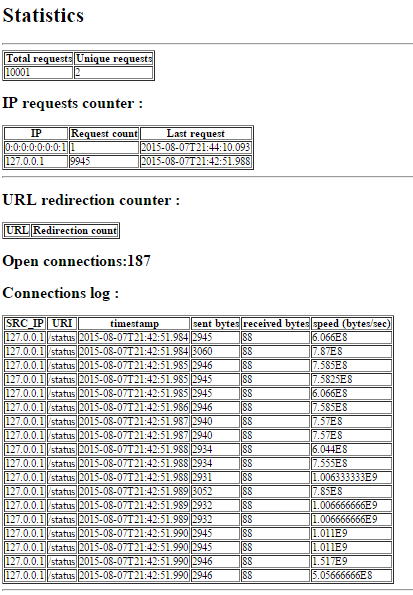
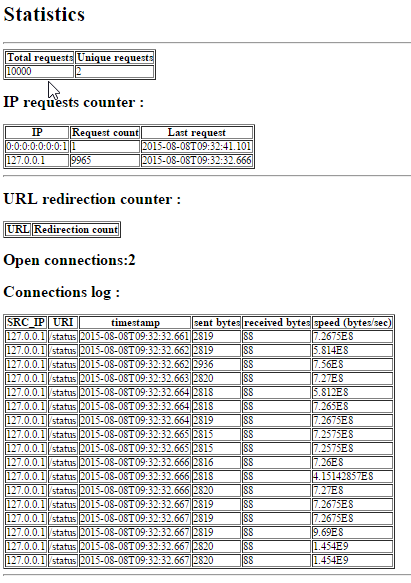
count open connections fixed

diff --git a/src/main/java/ua/palii/nettytest/server/Statistics.java b/src/main/java/ua/palii/nettytest/server/Statistics.java
@@ -4,6 +4,7 @@ import java.time.LocalDateTime;
 import java.util.*;
 import java.util.concurrent.ConcurrentHashMap;
 import java.util.concurrent.ConcurrentLinkedQueue;
+import java.util.concurrent.atomic.AtomicInteger;
 
 /**
  * Created by VVV on 05.08.2015.
@@ -16,7 +17,7 @@ public class Statistics {
 
     private ConcurrentLinkedQueue<ConnectionInfo> connectionLog;
 
-    private Integer openConnection = 0;
+    private AtomicInteger openConnection;
 
     private volatile long requestCount;
 
@@ -26,18 +27,19 @@ public class Statistics {
         redirect = new ConcurrentHashMap<String, Integer>();
         ipRequestCounter = new ConcurrentHashMap<String, CountRequestsAndTime>();
         connectionLog = new ConcurrentLinkedQueue<ConnectionInfo>();
+        openConnection = new AtomicInteger(0);
     }
 
     public void addConnection() {
-        openConnection++;
+        openConnection.incrementAndGet();
 
     }
 
     public void removeConnection() {
-        openConnection--;
+        openConnection.decrementAndGet();
     }
 
-    public Integer getOpenConnections() {
+    public AtomicInteger getOpenConnections() {
         return openConnection;
     }
 
